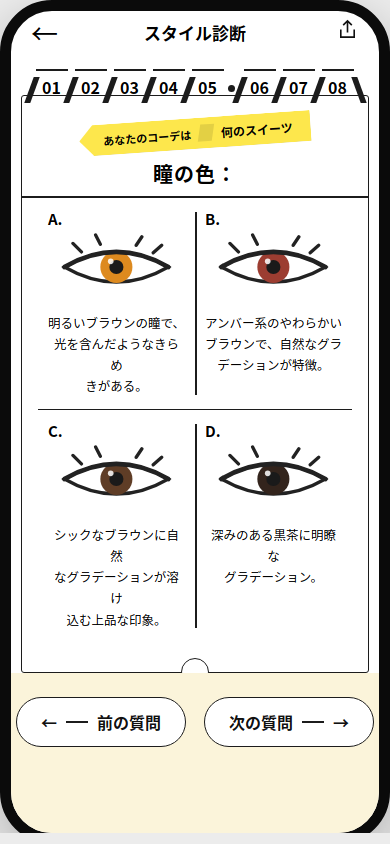
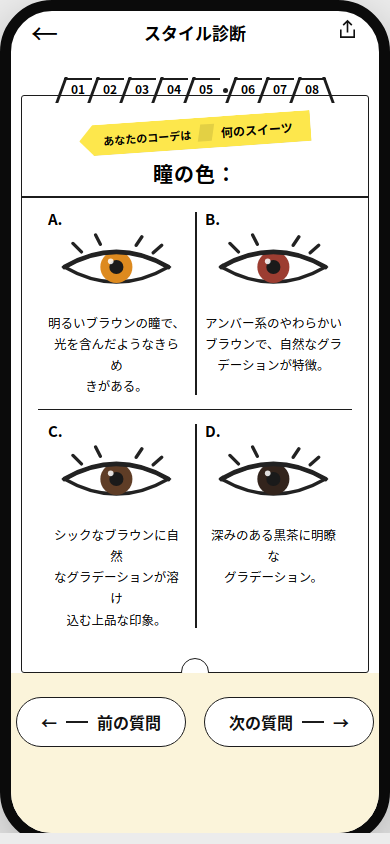
docs: tab 按标准图精确比例重设

Changed region(s): [[0.0615, 0.0924, 0.9538, 0.1232]]

diff --git a/prototype/style-shindan/style-shindan-repro.html b/prototype/style-shindan/style-shindan-repro.html
@@ -46,12 +46,12 @@
     display:flex; justify-content:center; align-items:flex-end; pointer-events:none;
   }
   .step { display:flex; align-items:flex-end; margin:0; }
-  .step .sl { width:6px; height:26px; background:#1c1c1c; transform:skewX(-20deg); margin:0 1px -6px 0; flex:none; }
-  .step .sl.r { transform:skewX(20deg); margin:0 0 -6px 2px; }
+  .step .sl { width:3px; height:26px; background:#1c1c1c; transform:skewX(-20deg); margin:0 1px -6px 0; flex:none; }
+  .step .sl.r { transform:skewX(20deg); margin:0 0 -6px 1px; }
   .step .tcell { display:flex; flex-direction:column; align-items:stretch; }
-  .step .ol { height:2.5px; background:#1c1c1c; width:32px; margin-bottom:8px; }
-  .step .nm { font-size:16px; font-weight:700; line-height:1; padding-bottom:2px; text-align:center; font-style:normal; }
-  .step .dt { width:7px; height:7px; border-radius:50%; background:#1c1c1c; margin:0 2px 5px 4px; flex:none; }
+  .step .ol { height:2px; background:#1c1c1c; width:28px; margin-bottom:3px; }
+  .step .nm { font-size:12px; font-weight:700; line-height:1; padding-bottom:2px; text-align:center; font-style:normal; }
+  .step .dt { width:5px; height:5px; border-radius:50%; background:#1c1c1c; margin:0 2px 4px 3px; flex:none; }
   .card {
     margin:42px 10px 0; border:1.6px solid #1c1c1c; border-radius:3px;
     background:#fff; position:relative; padding:20px 16px 30px; flex-shrink:0;
